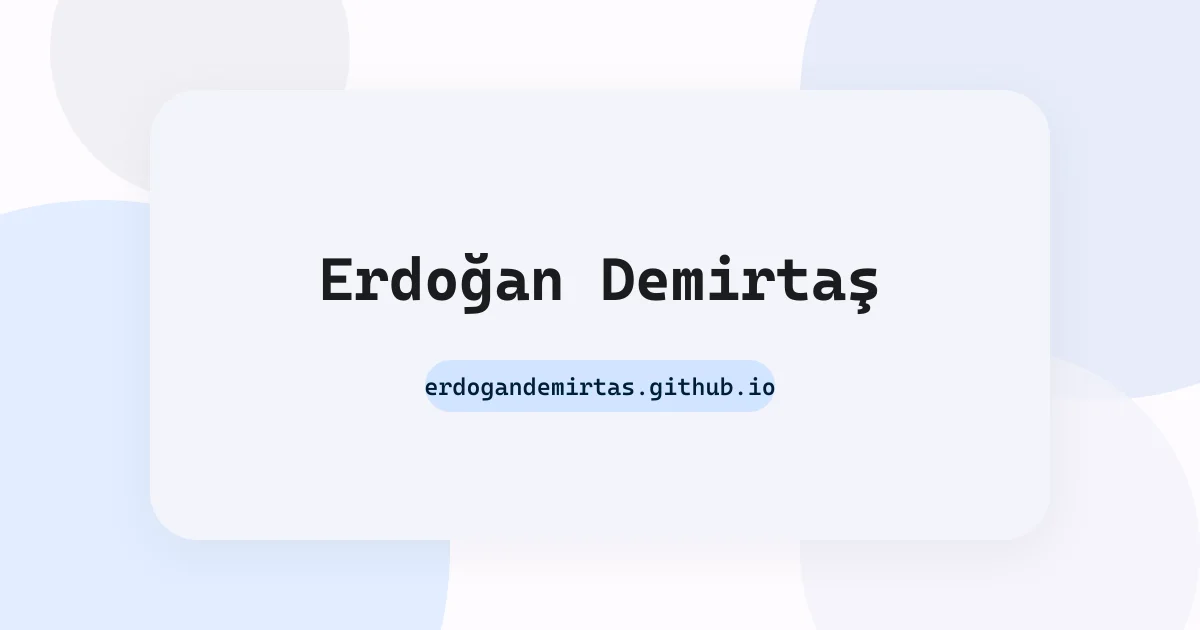
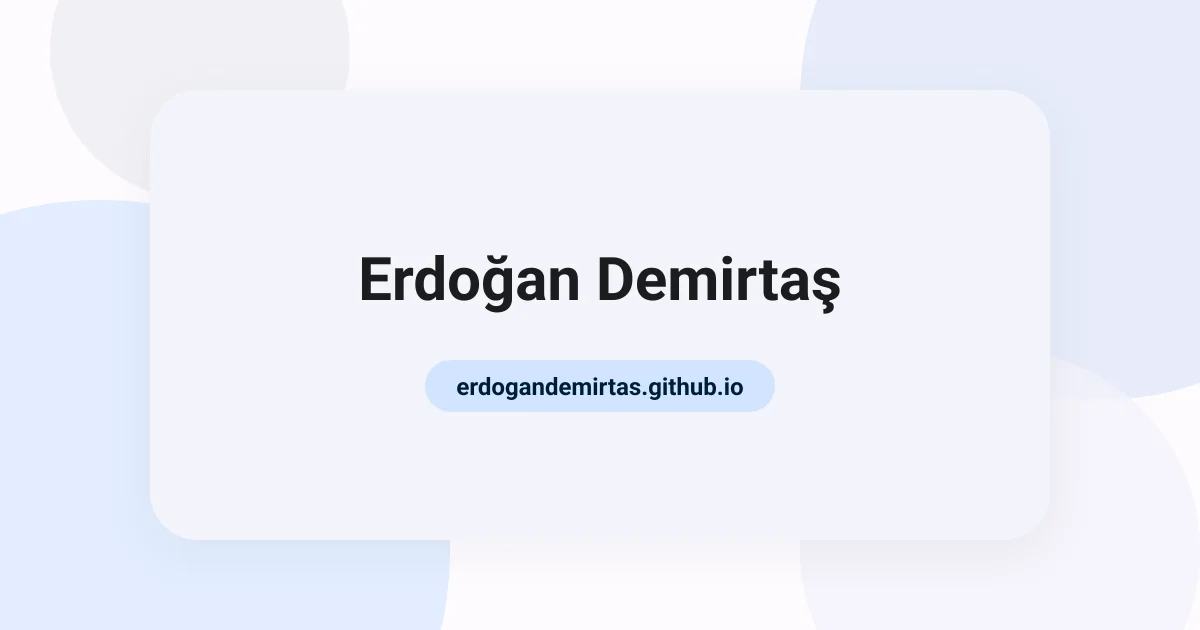
Improve SEO, PWA metadata, and image pipeline
Enhances `index.html` with richer social metadata (Open Graph + Twitter), JSON-LD person schema, responsive high-priority image preload, manifest/apple icon links, and safer GA initialization. Updates localization support for aria/alt/title attributes, adds `site.webmanifest`, refreshes sitemap date, and regenerates optimized bird/OG assets (including new PNG OG output). Build scripts were reorganized into `build:images`, `build:og`, and `build`, with smarter source fallback in image conversion and cleanup of obsolete image-generation files.

Changed region(s): [[0.2467, 0.3921, 0.74, 0.5127], [0.3392, 0.6032, 0.6475, 0.6333]]

diff --git a/index.html b/index.html
@@ -16,26 +16,56 @@
     <!-- DNS Prefetch & Preconnect -->
     <link rel="preconnect" href="https://fonts.googleapis.com">
     <link rel="preconnect" href="https://fonts.gstatic.com" crossorigin>
-    <link rel="dns-prefetch" href="https://upload.wikimedia.org">
-    <link rel="dns-prefetch" href="https://cdn.tailwindcss.com">
 
-    <!-- LCP (En Büyük İçerik) Ön Yüklemesi (yerel kopya) -->
-    <link rel="preload" as="image" href="assets/bird-full.jpg" fetchpriority="high">
+    <!-- LCP (En Büyük İçerik) Ön Yüklemesi (Responsive WebP) -->
+    <link rel="preload" as="image" href="assets/bird-1200.webp" imagesrcset="assets/bird-480.webp 480w, assets/bird-800.webp 800w, assets/bird-1200.webp 1200w" imagesizes="(max-width: 640px) 100vw, 680px" type="image/webp" fetchpriority="high">
 
-    <!-- Favicon -->
+    <!-- Favicon & PWA Manifest -->
     <link rel="icon" type="image/svg+xml" href="favicon.svg">
+    <link rel="apple-touch-icon" href="favicon.svg">
+    <link rel="manifest" href="site.webmanifest">
 
-    <!-- Open Graph / Sosyal Medya -->
+    <!-- Open Graph (Facebook, WhatsApp, LinkedIn) -->
     <meta property="og:type" content="website">
     <meta property="og:url" content="https://erdogandemirtas.github.io/">
+    <meta property="og:site_name" content="Erdoğan Demirtaş">
     <meta property="og:title" content="Erdoğan Demirtaş">
     <meta property="og:description" content="Erdoğan Demirtaş'ın kişisel web sitesi.">
-        <meta property="og:image" content="https://erdogandemirtas.github.io/assets/og-1200x630.webp">
+    <meta property="og:image" content="https://erdogandemirtas.github.io/assets/og-1200x630.png">
+    <meta property="og:image:type" content="image/png">
+    <meta property="og:image:width" content="1200">
+    <meta property="og:image:height" content="630">
     <meta property="og:locale" content="tr_TR">
+
+    <!-- Twitter / X Cards -->
+    <meta name="twitter:card" content="summary_large_image">
+    <meta name="twitter:url" content="https://erdogandemirtas.github.io/">
+    <meta name="twitter:title" content="Erdoğan Demirtaş">
+    <meta name="twitter:description" content="Erdoğan Demirtaş'ın kişisel web sitesi.">
+    <meta name="twitter:image" content="https://erdogandemirtas.github.io/assets/og-1200x630.png">
+
+    <!-- Yapılandırılmış Veri (JSON-LD / Schema.org) -->
+    <script type="application/ld+json">
+    {
+      "@context": "https://schema.org",
+      "@type": "Person",
+      "name": "Erdoğan Demirtaş",
+      "url": "https://erdogandemirtas.github.io/",
+      "image": "https://erdogandemirtas.github.io/assets/bird-1200.jpg",
+      "sameAs": [
+        "https://play.google.com/store/apps/dev?id=7093328901397114353",
+        "https://www.instagram.com/_erdogandemirtas",
+        "https://letterboxd.com/lyriswen/",
+        "https://erdogan.raindrop.page/"
+      ],
+      "jobTitle": "Android Developer",
+      "knowsAbout": ["Android Development", "Mobile Applications", "Kotlin", "Java"]
+    }
+    </script>
 
     <!-- Google Fonts & Material Symbols (MD3 Standartları) -->
     <link href="https://fonts.googleapis.com/css2?family=Roboto:wght@400;500;700&display=swap" rel="stylesheet">
-    <link href="https://fonts.googleapis.com/css2?family=Material+Symbols+Rounded:opsz,wght,FILL,GRAD@24,400,1,0" rel="stylesheet" />
+    <link href="https://fonts.googleapis.com/css2?family=Material+Symbols+Rounded:opsz,wght,FILL,GRAD@24,400,1,0" rel="stylesheet">
 
     <!-- Tailwind CSS -->
     <script src="https://cdn.tailwindcss.com"></script>
@@ -78,14 +108,23 @@
             }
         }
     </script>
-    <!-- Google Analytics (GA4) - Replace G-XXXXXXXXXX with your Measurement ID -->
-    <script async src="https://www.googletagmanager.com/gtag/js?id=G-XXXXXXXXXX"></script>
+
+    <!-- Google Analytics (GA4) - Gerçek ID eklendiğinde otomatik aktifleşir -->
     <script>
-        window.dataLayer = window.dataLayer || [];
-        function gtag(){dataLayer.push(arguments);} 
-        gtag('js', new Date());
-        gtag('config', 'G-XXXXXXXXXX', { 'anonymize_ip': true });
+        const GA_MEASUREMENT_ID = 'G-XXXXXXXXXX'; // Gerçek GA4 Ölçüm Kimliğinizi buraya giriniz
+        if (GA_MEASUREMENT_ID && GA_MEASUREMENT_ID !== 'G-XXXXXXXXXX') {
+            const gaScript = document.createElement('script');
+            gaScript.async = true;
+            gaScript.src = `https://www.googletagmanager.com/gtag/js?id=${GA_MEASUREMENT_ID}`;
+            document.head.appendChild(gaScript);
+
+            window.dataLayer = window.dataLayer || [];
+            function gtag(){dataLayer.push(arguments);}
+            gtag('js', new Date());
+            gtag('config', GA_MEASUREMENT_ID);
+        }
     </script>
+
     <style>
         body {
             background-color: #FDFBFF;
@@ -138,16 +177,18 @@
         <header class="animate-fade-in-up opacity-0 flex flex-col gap-4 mb-2">
             <!-- MD3 Image Card -->
             <div class="w-full h-56 sm:h-80 rounded-[32px] overflow-hidden relative bg-md-surfaceVariant group">
-                    <picture>
-                        <source type="image/webp" srcset="assets/bird-480.webp 480w, assets/bird-800.webp 800w, assets/bird-1200.webp 1200w" sizes="(max-width: 640px) 100vw, 680px">
-                        <img src="assets/bird-1200.jpg"
-                     alt="Mavi Alakarga"
-                     title="Fotoğraf: Mdf, CC BY-SA 3.0, Wikimedia Commons"
-                     class="w-full h-full object-cover transition-transform duration-700 group-hover:scale-105"
-                     width="1200" height="800"
-                     loading="lazy" decoding="async"
-                     onerror="this.onerror=null;this.src='https://placehold.co/800x400?text=Görsel+Bulunamadı&font=roboto';">
-                    </picture>
+                <picture>
+                    <source type="image/webp" srcset="assets/bird-480.webp 480w, assets/bird-800.webp 800w, assets/bird-1200.webp 1200w" sizes="(max-width: 640px) 100vw, 680px">
+                    <img src="assets/bird-1200.jpg"
+                         alt="Mavi Alakarga"
+                         data-en-alt="Blue Jay"
+                         title="Fotoğraf: Mdf, CC BY-SA 3.0, Wikimedia Commons"
+                         data-en-title="Photo: Mdf, CC BY-SA 3.0, Wikimedia Commons"
+                         class="w-full h-full object-cover transition-transform duration-700 group-hover:scale-105"
+                         width="1200" height="800"
+                         loading="eager" fetchpriority="high" decoding="async"
+                         onerror="this.onerror=null;this.src='https://placehold.co/800x400?text=Görsel+Bulunamadı&font=roboto';">
+                </picture>
                 
                 <!-- Tooltip Overlay -->
                 <div class="absolute bottom-4 right-4 opacity-0 group-hover:opacity-100 transition-opacity duration-300 pointer-events-none">
@@ -181,15 +222,17 @@
 
         <!-- MD3 Bağlantılar Bölümü (List Elements / Interactive Cards) -->
         <section class="animate-fade-in-up opacity-0 delay-200 mt-2">
-            <h2 class="text-[14px] font-medium text-md-onSurfaceVariant tracking-widest uppercase px-2 mb-4 flex items-center gap-3" data-en="Connect">
+            <div class="flex items-center gap-3 px-2 mb-4">
                 <span class="material-symbols-rounded text-md-primary text-[20px]">link</span>
-                Bağlantılar
-            </h2>
+                <h2 class="text-[14px] font-medium text-md-onSurfaceVariant tracking-widest uppercase" data-en="Connect">
+                    Bağlantılar
+                </h2>
+            </div>
             
             <div class="flex flex-col gap-3">
                 
                 <!-- MD3 Outlined Card (Primary Link) -->
-                <a href="https://play.google.com/store/apps/dev?id=7093328901397114353" target="_blank" rel="noopener noreferrer" aria-label="Google Play Geliştirici Profilim" class="md-ripple-hover flex items-center p-4 rounded-[20px] border border-md-outlineVariant bg-md-surface text-md-onSurface hover:bg-md-surfaceVariant/30 transition-colors">
+                <a href="https://play.google.com/store/apps/dev?id=7093328901397114353" target="_blank" rel="noopener noreferrer" aria-label="Google Play Geliştirici Profilim" data-en-aria-label="Google Play Developer Profile" class="md-ripple-hover flex items-center p-4 rounded-[20px] border border-md-outlineVariant bg-md-surface text-md-onSurface hover:bg-md-surfaceVariant/30 transition-colors">
                     <div class="w-12 h-12 rounded-full bg-emerald-100 text-emerald-700 flex items-center justify-center mr-4 shrink-0">
                         <span class="material-symbols-rounded">shop</span>
                     </div>
@@ -201,7 +244,7 @@
                 </a>
 
                 <!-- MD3 Outlined Card -->
-                <a href="https://www.instagram.com/_erdogandemirtas" target="_blank" rel="noopener noreferrer" aria-label="Instagram Profilim" class="md-ripple-hover flex items-center p-4 rounded-[20px] border border-md-outlineVariant bg-md-surface text-md-onSurface hover:bg-md-surfaceVariant/30 transition-colors">
+                <a href="https://www.instagram.com/_erdogandemirtas" target="_blank" rel="noopener noreferrer" aria-label="Instagram Profilim" data-en-aria-label="Instagram Profile" class="md-ripple-hover flex items-center p-4 rounded-[20px] border border-md-outlineVariant bg-md-surface text-md-onSurface hover:bg-md-surfaceVariant/30 transition-colors">
                     <div class="w-12 h-12 rounded-full bg-pink-100 text-pink-700 flex items-center justify-center mr-4 shrink-0">
                         <span class="material-symbols-rounded">photo_camera</span>
                     </div>
@@ -214,14 +257,14 @@
 
                 <!-- 2 Column Grid for smaller links -->
                 <div class="grid grid-cols-1 sm:grid-cols-2 gap-3">
-                    <a href="https://erdogan.raindrop.page/" target="_blank" rel="noopener noreferrer" aria-label="Raindrop Koleksiyonum" class="md-ripple-hover flex items-center p-4 rounded-[20px] bg-md-surfaceContainer hover:bg-md-surfaceVariant/80 transition-colors text-md-onSurface">
+                    <a href="https://erdogan.raindrop.page/" target="_blank" rel="noopener noreferrer" aria-label="Raindrop Koleksiyonum" data-en-aria-label="Raindrop Collection" class="md-ripple-hover flex items-center p-4 rounded-[20px] bg-md-surfaceContainer hover:bg-md-surfaceVariant/80 transition-colors text-md-onSurface">
                         <div class="w-10 h-10 rounded-full bg-cyan-100 text-cyan-700 flex items-center justify-center mr-3 shrink-0">
                             <span class="material-symbols-rounded text-[20px]">water_drop</span>
                         </div>
                         <span class="font-medium text-[15px] flex-1">Raindrop</span>
                     </a>
 
-                    <a href="https://letterboxd.com/lyriswen/" target="_blank" rel="noopener noreferrer" aria-label="Letterboxd Profilim" class="md-ripple-hover flex items-center p-4 rounded-[20px] bg-md-surfaceContainer hover:bg-md-surfaceVariant/80 transition-colors text-md-onSurface">
+                    <a href="https://letterboxd.com/lyriswen/" target="_blank" rel="noopener noreferrer" aria-label="Letterboxd Profilim" data-en-aria-label="Letterboxd Profile" class="md-ripple-hover flex items-center p-4 rounded-[20px] bg-md-surfaceContainer hover:bg-md-surfaceVariant/80 transition-colors text-md-onSurface">
                         <div class="w-10 h-10 rounded-full bg-orange-100 text-orange-700 flex items-center justify-center mr-3 shrink-0">
                             <span class="material-symbols-rounded text-[20px]">movie</span>
                         </div>
@@ -243,21 +286,29 @@
 
     <!-- MD3 Extended FAB (Floating Action Button) for Primary Action -->
     <div class="fixed bottom-6 right-6 z-50 animate-fade-in-up delay-300 opacity-0">
-        <a href="mailto:erdogandemirtas@outlook.com" aria-label="Bana e-posta gönderin" class="md-ripple-hover flex items-center gap-2 bg-md-primaryContainer text-md-onPrimaryContainer px-5 py-4 rounded-[16px] shadow-[0_4px_8px_rgba(0,0,0,0.1)] hover:shadow-[0_8px_16px_rgba(0,0,0,0.15)] transition-all hover:-translate-y-1">
+        <a href="mailto:erdogandemirtas@outlook.com" aria-label="Bana e-posta gönderin" data-en-aria-label="Send me an email" class="md-ripple-hover flex items-center gap-2 bg-md-primaryContainer text-md-onPrimaryContainer px-5 py-4 rounded-[16px] shadow-[0_4px_8px_rgba(0,0,0,0.1)] hover:shadow-[0_8px_16px_rgba(0,0,0,0.15)] transition-all hover:-translate-y-1">
             <span class="material-symbols-rounded">mail</span>
             <span class="font-medium pr-1" data-en="Email Me">E-Posta Gönder</span>
         </a>
     </div>
 
-    <!-- Dil Çeviri Scripti -->
+    <!-- Gelişmiş Dil Çeviri Scripti -->
     <script>
         document.addEventListener('DOMContentLoaded', () => {
             const userLang = navigator.language || navigator.userLanguage;
             if (!userLang.toLowerCase().startsWith('tr')) {
                 document.documentElement.lang = 'en';
-                const translatableElements = document.querySelectorAll('[data-en]');
-                translatableElements.forEach(el => {
+                document.querySelectorAll('[data-en]').forEach(el => {
                     el.innerHTML = el.getAttribute('data-en');
+                });
+                document.querySelectorAll('[data-en-aria-label]').forEach(el => {
+                    el.setAttribute('aria-label', el.getAttribute('data-en-aria-label'));
+                });
+                document.querySelectorAll('[data-en-alt]').forEach(el => {
+                    el.setAttribute('alt', el.getAttribute('data-en-alt'));
+                });
+                document.querySelectorAll('[data-en-title]').forEach(el => {
+                    el.setAttribute('title', el.getAttribute('data-en-title'));
                 });
             }
         });

diff --git a/scripts/convert-images.js b/scripts/convert-images.js
@@ -1,18 +1,44 @@
 const sharp = require('sharp');
 const path = require('path');
+const fs = require('fs');
 
 async function convert() {
-  const input = path.join(__dirname, '..', 'assets', 'bird-full.jpg');
+  const assetsDir = path.join(__dirname, '..', 'assets');
+  let input = path.join(assetsDir, 'bird-full.jpg');
+
+  // Fallback to bird-1200.jpg if bird-full.jpg is not present
+  if (!fs.existsSync(input)) {
+    input = path.join(assetsDir, 'bird-1200.jpg');
+    if (!fs.existsSync(input)) {
+      throw new Error('No source image found in assets directory (neither bird-full.jpg nor bird-1200.jpg exists).');
+    }
+    console.log('bird-full.jpg not found, using bird-1200.jpg as source.');
+  }
+
   const sizes = [480, 800, 1200];
   for (const size of sizes) {
-    const out = path.join(__dirname, '..', 'assets', `bird-${size}.webp`);
-    console.log('Generating', out);
+    const outWebp = path.join(assetsDir, `bird-${size}.webp`);
+    console.log(`Generating: bird-${size}.webp`);
     await sharp(input)
       .resize({ width: size })
       .webp({ quality: 80 })
-      .toFile(out);
+      .toFile(outWebp);
   }
-  console.log('Done');
+
+  // Ensure high quality JPEG fallback exists
+  const outJpg = path.join(assetsDir, 'bird-1200.jpg');
+  if (input !== outJpg) {
+    console.log('Generating: bird-1200.jpg');
+    await sharp(input)
+      .resize({ width: 1200 })
+      .jpeg({ quality: 82 })
+      .toFile(outJpg);
+  }
+
+  console.log('All bird images successfully generated!');
 }
 
-convert().catch(err => { console.error(err); process.exit(1); });
+convert().catch(err => {
+  console.error(err);
+  process.exit(1);
+});

diff --git a/scripts/convert-og.js b/scripts/convert-og.js
@@ -1,15 +1,35 @@
 const sharp = require('sharp');
 const path = require('path');
+const fs = require('fs');
 
 async function makeOg() {
-  const input = path.join(__dirname, '..', 'profile-preview.svg');
-  const output = path.join(__dirname, '..', 'assets', 'og-1200x630.webp');
-  console.log('Rendering', input, '->', output);
+  const rootDir = path.join(__dirname, '..');
+  const input = path.join(rootDir, 'profile-preview.svg');
+  const assetsDir = path.join(rootDir, 'assets');
+
+  if (!fs.existsSync(input)) {
+    throw new Error('profile-preview.svg not found in root directory.');
+  }
+
+  const outWebp = path.join(assetsDir, 'og-1200x630.webp');
+  const outPng = path.join(assetsDir, 'og-1200x630.png');
+
+  console.log(`Generating OG WebP: ${outWebp}`);
   await sharp(input)
     .resize(1200, 630, { fit: 'cover' })
     .webp({ quality: 85 })
-    .toFile(output);
-  console.log('OG image created:', output);
+    .toFile(outWebp);
+
+  console.log(`Generating OG PNG: ${outPng}`);
+  await sharp(input)
+    .resize(1200, 630, { fit: 'cover' })
+    .png({ quality: 90 })
+    .toFile(outPng);
+
+  console.log('Open Graph preview images successfully generated (WebP + PNG)!');
 }
 
-makeOg().catch(err => { console.error(err); process.exit(1); });
+makeOg().catch(err => {
+  console.error(err);
+  process.exit(1);
+});
